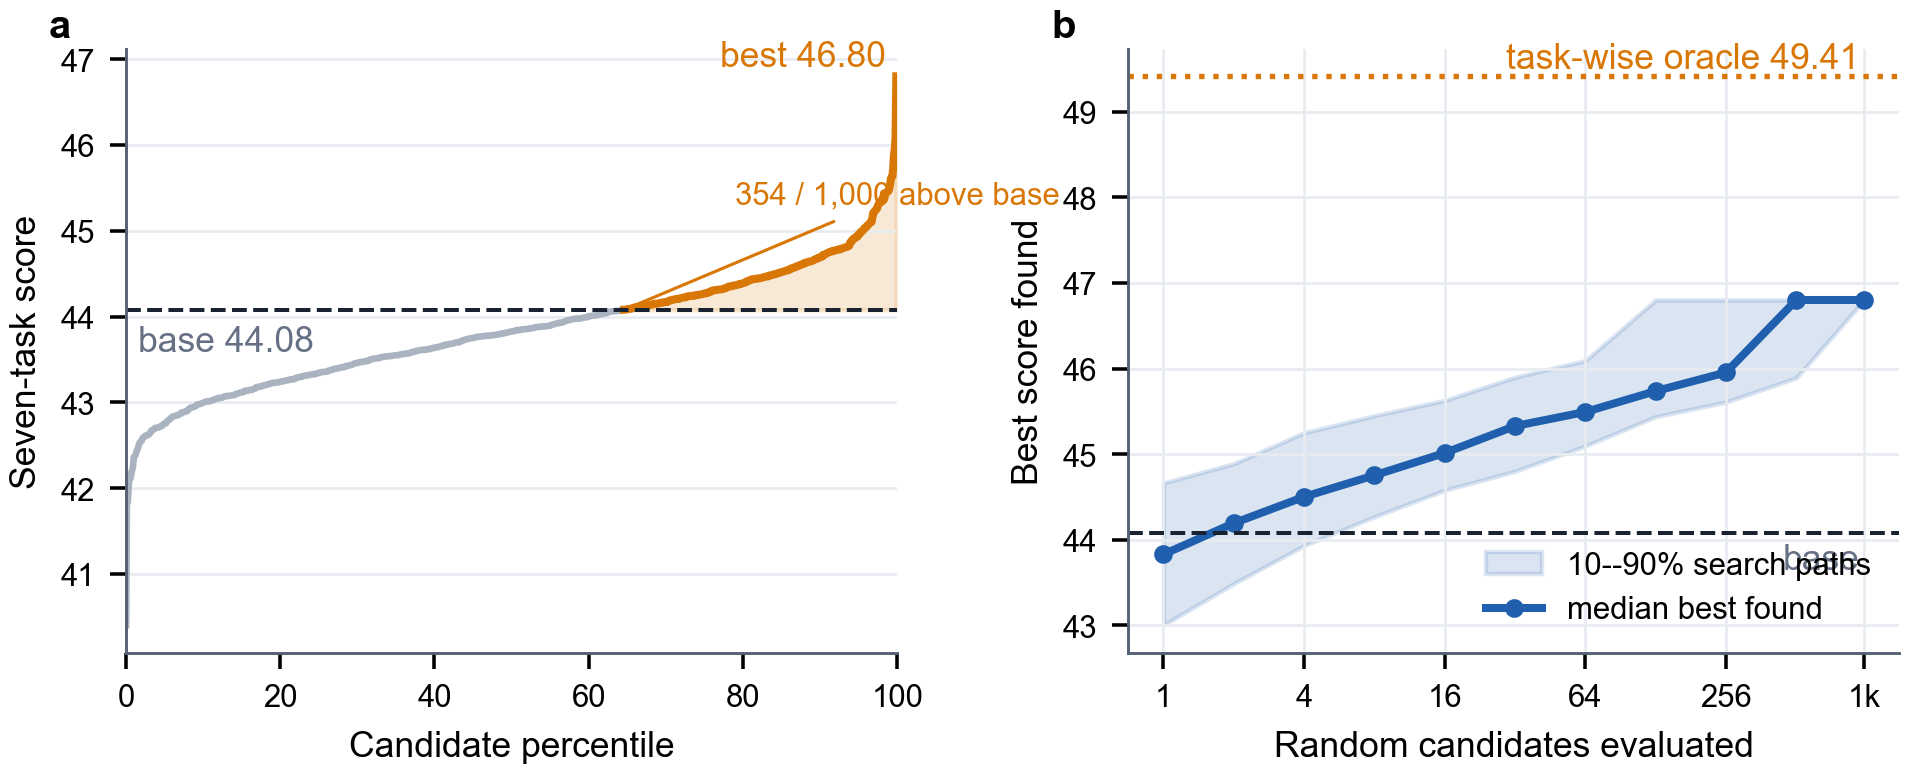
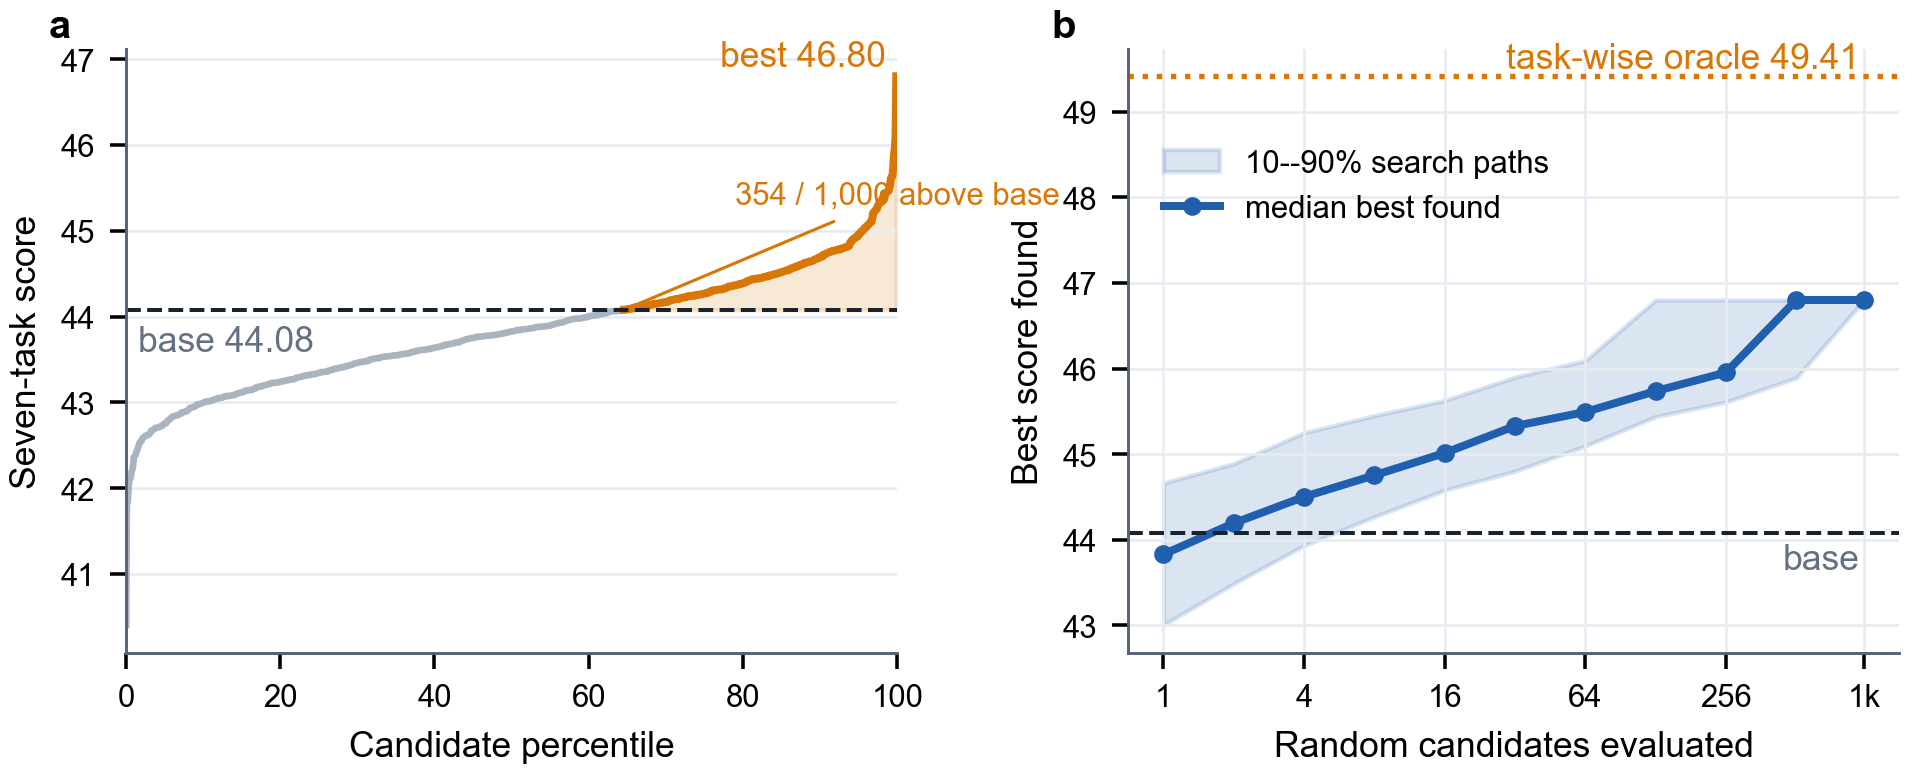
paper: remove chart label overlaps

Changed region(s): [[0.5875, 0.1863, 0.804, 0.2794], [0.7731, 0.7141, 0.9895, 0.7451], [0.7731, 0.7762, 0.9586, 0.8072]]

diff --git a/paper/scripts/render_paper_figures.py b/paper/scripts/render_paper_figures.py
@@ -182,7 +182,12 @@ def render_search_space() -> None:
     ax.set_xticks([1, 4, 16, 64, 256, 1000], ["1", "4", "16", "64", "256", "1k"])
     ax.set(xlabel="Random candidates evaluated", ylabel="Best score found")
     ax.grid(True)
-    ax.legend(frameon=False, loc="lower right", handlelength=1.8)
+    ax.legend(
+        frameon=False,
+        loc="upper left",
+        bbox_to_anchor=(0.01, 0.88),
+        handlelength=1.8,
+    )
     panel_label(ax, "B")
 
     save(fig, "fig2-search-space")
@@ -605,7 +610,7 @@ def render_trace_cases() -> None:
 
     palette = [ORANGE, GREEN, "#59A14F", "#72A0C1", "#4E79A7", BLUE,
                RED, PURPLE, "#B279A2", GRAY, "#9C755F", "#76B7B2"]
-    fig, axes = plt.subplots(4, 3, figsize=(7.15, 6.75), sharex=True, sharey=True,
+    fig, axes = plt.subplots(4, 3, figsize=(7.15, 6.95), sharex=True, sharey=True,
                              gridspec_kw={"wspace": 0.11, "hspace": 0.24})
     for index, (ax, (label, _, run, repeat_count), color) in enumerate(zip(axes.flat, representatives, palette)):
         points = run["points"]
@@ -644,15 +649,26 @@ def render_trace_cases() -> None:
         ax.axhline(44.08, color=INK, ls="--", lw=0.8)
         ax.set(xlim=(0, 240), ylim=(39.5, 50.0))
         ax.grid(True)
-        ax.set_title(label, loc="left", fontsize=7.2, pad=2)
+        letter = chr(ord("a") + index)
+        ax.text(0.0, 1.02, letter, transform=ax.transAxes, weight="bold", fontsize=8.2)
+        ax.set_title(label, x=0.085, ha="left", fontsize=7.2, pad=2)
         ax.text(0.97, 0.95, f"{repeat_count} runs · {run['evaluations']} evals · {best[-1]:.2f}",
                 transform=ax.transAxes, ha="right", va="top", color=GRAY, fontsize=5.4)
-        panel_label(ax, chr(ord("A") + index))
-    fig.supxlabel("Elapsed minutes", y=0.015, fontsize=8)
+    fig.supxlabel("Elapsed minutes", y=-0.005, fontsize=8)
     fig.supylabel("Seven-task score", x=0.01, fontsize=8)
     axes[-1, -1].plot([], [], color="#B7C0CC", marker="o", ls="", ms=3, label="evaluated candidate")
     axes[-1, -1].plot([], [], color=INK, lw=1.55, label="running best")
-    axes[-1, -1].legend(frameon=False, loc="lower right", handlelength=1.4, fontsize=5.5)
+    handles, legend_labels = axes[-1, -1].get_legend_handles_labels()
+    fig.legend(
+        handles,
+        legend_labels,
+        frameon=False,
+        loc="lower center",
+        bbox_to_anchor=(0.5, 0.018),
+        ncol=2,
+        handlelength=1.4,
+        fontsize=5.5,
+    )
 
     save(fig, "fig5-trace-cases")
 
